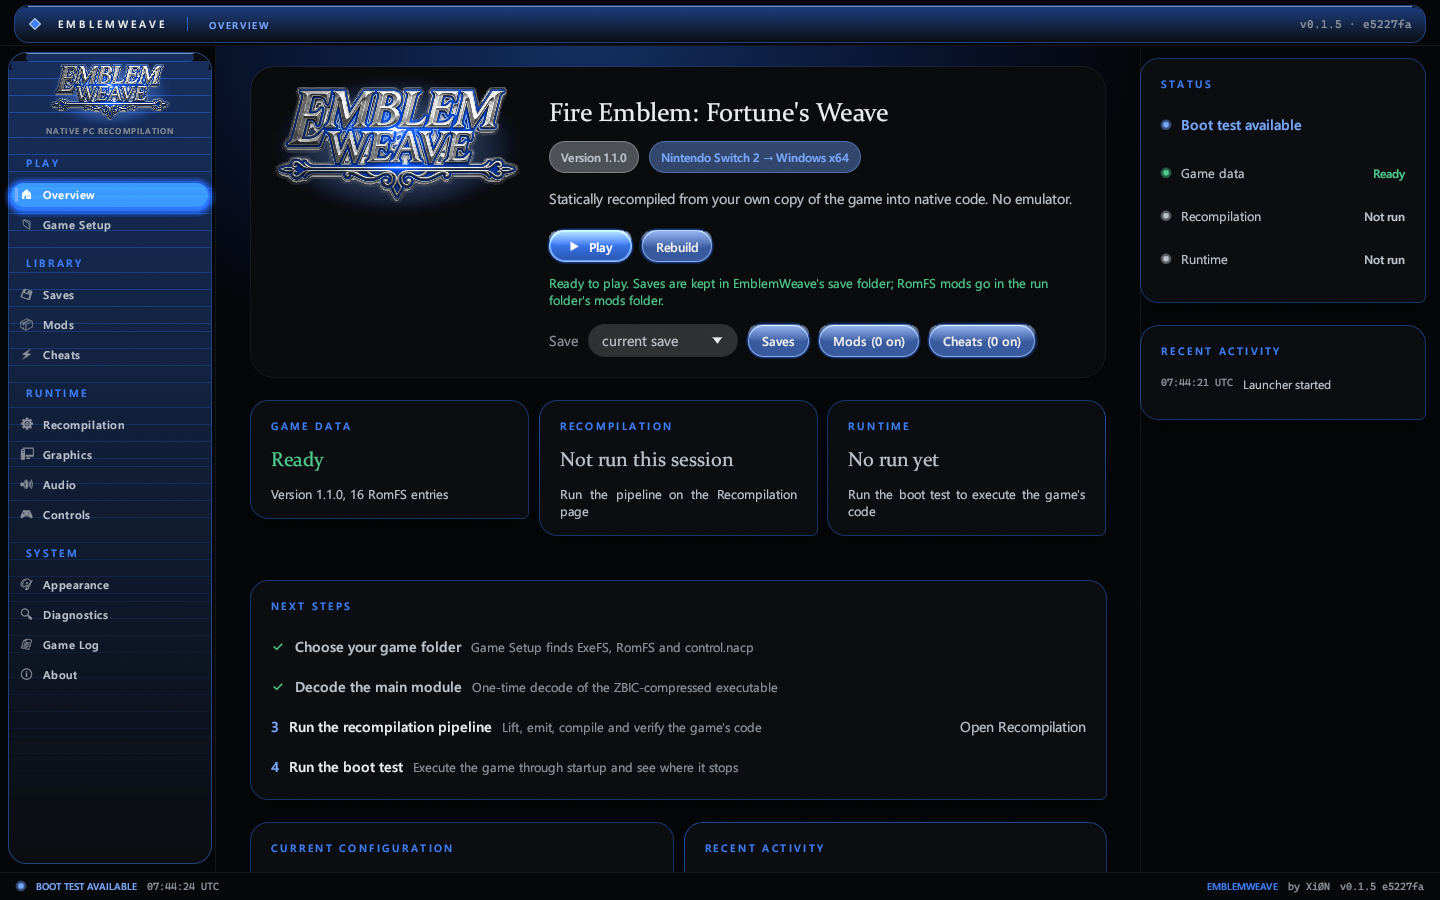
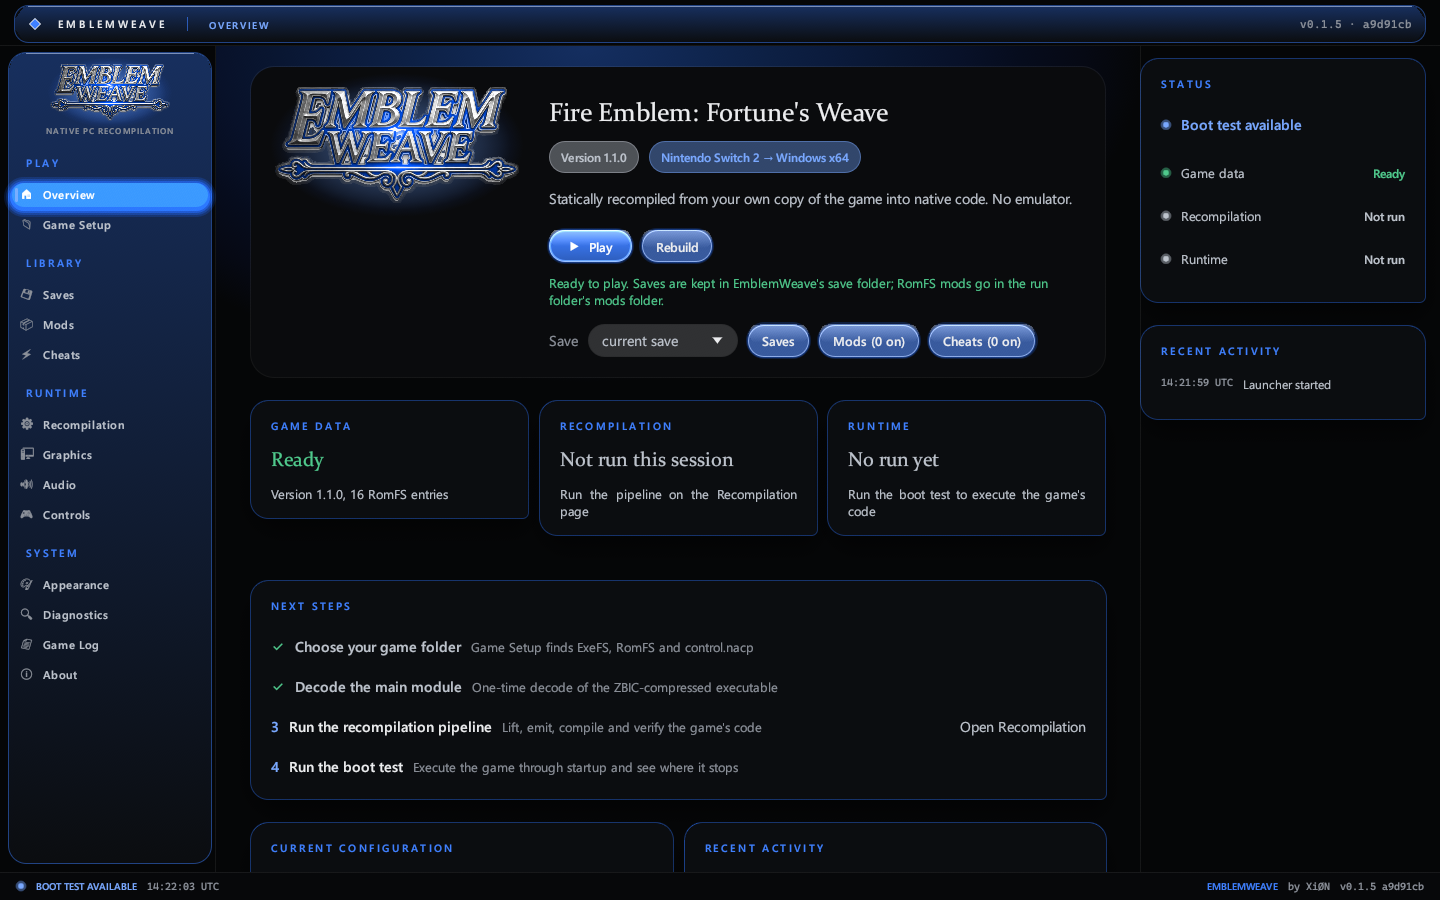
Draw each gradient as one column-by-column mesh
The row-by-row pass left a brighter line at every row boundary, so the rail's
backdrop came out striped and its corners stepped. The gradient is now a single
mesh: each column spans the rectangle between its top and bottom edge, shortened
by the corner arc, with the colour interpolated across the whole height. That
keeps the rounded silhouette exact, removes the seams and the banding, and still
cannot paint outside the rectangle.

diff --git a/apps/emblemweave/src/widgets.rs b/apps/emblemweave/src/widgets.rs
@@ -161,46 +161,52 @@ pub fn status_line(ui: &mut egui::Ui, p: &Palette, tone: Tone, label: &str, deta
 
 /// Fill a rounded rectangle with a vertical gradient, as one mesh.
 pub fn gradient_fill(painter: &egui::Painter, rect: Rect, radius: f32, top: Color32, bottom: Color32) {
-    painter.extend(gradient_rows(rect, radius, top, bottom));
+    painter.add(gradient_shape(rect, radius, top, bottom));
 }
 
 /// [`gradient_fill`] as a shape, for painting behind content laid out later.
+/// [`gradient_fill`] as a shape, for painting behind content laid out later.
+///
+/// The mesh is built column by column: each column runs from the rectangle's top
+/// edge to its bottom edge at that x, shortened by the corner arc, with the
+/// colour going from `top` at the top edge to `bottom` at the bottom. The
+/// silhouette follows the corners exactly and the colour is interpolated across
+/// the whole height, so there is no banding and no seam between rows, and —
+/// unlike a triangle fan around the outline — no geometry that can leave the
+/// rectangle when a corner radius is large next to a short side.
 pub fn gradient_shape(rect: Rect, radius: f32, top: Color32, bottom: Color32) -> egui::Shape {
-    egui::Shape::Vec(gradient_rows(rect, radius, top, bottom))
-}
-
-/// A vertical gradient inside a rounded rectangle, painted as thin rows rather
-/// than as a mesh. Every row is a rounded rect of its own, inset by the corner's
-/// cut at that height, so a gradient can never paint outside its rectangle —
-/// whatever the size, the radius or the pixel density. A triangle-fan mesh can
-/// spill when a radius is large next to a short side, which is what threw pale
-/// wedges across the page around the buttons.
-fn gradient_rows(rect: Rect, radius: f32, top: Color32, bottom: Color32) -> Vec<egui::Shape> {
     let (w, h) = (rect.width().max(0.0), rect.height().max(0.0));
     if w < 0.5 || h < 0.5 {
-        return Vec::new();
+        return egui::Shape::Noop;
     }
     let r = radius.min(w * 0.5).min(h * 0.5).max(0.0);
-    let rows = (h.ceil() as usize).clamp(1, 96);
-    let step = h / rows as f32;
-    let mut out = Vec::with_capacity(rows);
-    for i in 0..rows {
-        let y0 = rect.top() + i as f32 * step;
-        let y1 = (y0 + step + 0.5).min(rect.bottom());
-        // The horizontal cut the corner takes at this row's nearest edge.
-        let d = (y0 - rect.top()).min((rect.bottom() - y1).max(0.0));
-        let inset = if d < r { r - (r * r - (r - d) * (r - d)).max(0.0).sqrt() } else { 0.0 };
-        let row = Rect::from_min_max(Pos2::new(rect.left() + inset, y0), Pos2::new(rect.right() - inset, y1));
-        let t = (((y0 + y1) * 0.5) - rect.top()) / h;
-        let corners = if inset > 0.5 { CornerRadius::same(inset.round().clamp(0.0, 255.0) as u8) } else { CornerRadius::ZERO };
-        out.push(egui::Shape::rect_filled(row, corners, lerp(top, bottom, t.clamp(0.0, 1.0))));
+    let cols = ((w / 3.0).ceil() as usize).clamp(8, 160);
+    let shade = |y: f32| lerp(top, bottom, ((y - rect.top()) / h).clamp(0.0, 1.0));
+    // Where the rectangle's edge sits at this x, after the corner arc.
+    let edge = |x: f32| -> (f32, f32) {
+        let dx = (x - rect.left()).min(rect.right() - x).max(0.0);
+        if r <= 0.5 || dx >= r {
+            (rect.top(), rect.bottom())
+        } else {
+            let dy = (r * r - (r - dx) * (r - dx)).max(0.0).sqrt();
+            (rect.top() + r - dy, rect.bottom() - r + dy)
+        }
+    };
+    let mut mesh = egui::Mesh::default();
+    for i in 0..=cols {
+        let x = rect.left() + w * i as f32 / cols as f32;
+        let (y0, y1) = edge(x);
+        mesh.colored_vertex(Pos2::new(x, y0), shade(y0));
+        mesh.colored_vertex(Pos2::new(x, y1), shade(y1));
     }
-    out
+    for i in 0..cols as u32 {
+        let a = i * 2;
+        mesh.add_triangle(a, a + 1, a + 2);
+        mesh.add_triangle(a + 1, a + 3, a + 2);
+    }
+    egui::Shape::mesh(mesh)
 }
 
-/// Every button in the launcher: one height, one type size, one pill radius.
-/// `primary` changes the fill, never the size, so a row of controls reads as a
-/// single family whatever each one does.
 /// Every button in the launcher: one height, one type size, one pill radius.
 /// The finish is liquid glass — a tinted body with a specular band across the
 /// top, a lit rim and a soft glow in the scheme's accent — so a button reads as
